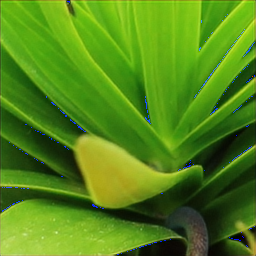
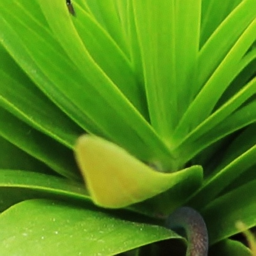
fix evaluate, update pngs

diff --git a/project_1/src/evaluate.py b/project_1/src/evaluate.py
@@ -48,11 +48,14 @@ def evaluate(dataloader, model_path, result_csv='result.csv'):
     model.load_state_dict(torch.load(model_path, map_location=device))
     model.eval()
 
+    print("Initializing LPIPS...")
     lpips_loss_fn = lpips.LPIPS(net='alex').to(device)
+    print("LPIPS initialized.")
     psnr_values, ssim_values, lpips_values = [], [], []
 
     with torch.no_grad():
-        for inputs, targets in dataloader:
+        total_batches = len(dataloader)
+        for batch_index, (inputs, targets) in enumerate(dataloader, start=1):
             inputs, targets = inputs.to(device), targets.to(device)
             outputs = model(inputs)
 
@@ -78,6 +81,9 @@ def evaluate(dataloader, model_path, result_csv='result.csv'):
             # Extract individual values from the batch
             for j in range(lpips_batch.shape[0]):
                 lpips_values.append(lpips_batch[j].item())
+
+            if batch_index % 5 == 0 or batch_index == total_batches:
+                print(f"Progress: {batch_index}/{total_batches} batches ({(100.0 * batch_index / total_batches):.1f}%)")
     
     average_psnr, average_ssim, average_lpips = write_results(result_csv, psnr_values, ssim_values, lpips_values)
 
@@ -92,48 +98,37 @@ def evaluate(dataloader, model_path, result_csv='result.csv'):
         'lpips': average_lpips,
     }
 
-def evaluate_external_method(dataloader, restoration_method, result_csv='external_method_results.csv'):
+def evaluate_denoising_bilateral(dataloader, sigma_color=0.05, sigma_spatial=15, result_csv='bilateral_denoising_results.csv'):
     print('=' * 50)
-    print(f"Evaluating external method: {restoration_method}")
+    print(f"Evaluating bilateral denoising")
     print(f"Size of test set: {len(dataloader.dataset)}")
     print(f"Saving results to: {result_csv}")
     
     psnr_values, ssim_values, lpips_values = [], [], []
+    print("Initializing LPIPS...")
     lpips_loss_fn = lpips.LPIPS(net='alex')
+    print("LPIPS initialized.")
 
-    # Small normalized blur kernel used for Richardson-Lucy deblurring.
-    psf = np.ones((5, 5), dtype=np.float32)
-    psf /= psf.sum()
-
-    for inputs, targets in dataloader:
+    total_batches = len(dataloader)
+    for batch_index, (inputs, targets) in enumerate(dataloader, start=1):
         inputs_np = inputs.cpu().numpy().transpose(0, 2, 3, 1)  # (B, C, H, W) -> (B, H, W, C)
         targets_np = targets.cpu().numpy().transpose(0, 2, 3, 1)  # (B, C, H, W) -> (B, H, W, C)
 
         for i in range(inputs_np.shape[0]):
-            restored = None
-            if restoration_method == 'bilateral_denoising':
-                restored = denoise_bilateral(inputs_np[i], channel_axis=-1)
-            elif restoration_method == 'richardson_lucy_deblurring':
-                # richardson_lucy expects image and PSF dimensionality to match.
-                # For RGB images, apply RL independently per channel with a 2D PSF.
-                restored = np.stack(
-                    [
-                        richardson_lucy(inputs_np[i, :, :, c], psf, num_iter=10)
-                        for c in range(inputs_np[i].shape[2])
-                    ],
-                    axis=-1,
-                )
-
+            restored = denoise_bilateral(inputs_np[i], sigma_color=sigma_color, sigma_spatial=sigma_spatial, channel_axis=-1)
             restored = np.clip(restored, 0.0, 1.0)
             
             psnr_values.append(psnr(targets_np[i], restored, data_range=1.0))
-            ssim_values.append(ssim(targets_np[i], restored, channel_axis=2, data_range=1.0))
+            ssim_values.append(ssim(targets_np[i], restored, channel_axis=2, data_range=1.0, win_size=5))
             
             restored_lpips = torch.from_numpy(restored.transpose(2, 0, 1)).unsqueeze(0) * 2 - 1  # [0, 1] -> [-1, 1]
             targets_lpips = torch.from_numpy(targets_np[i].transpose(2, 0, 1)).unsqueeze(0) * 2 - 1  # [0, 1] -> [-1, 1]
             lpips_value = lpips_loss_fn(restored_lpips.float(), targets_lpips.float()).item()
             lpips_values.append(lpips_value)
 
+        if batch_index % 5 == 0 or batch_index == total_batches:
+            print(f"Progress: {batch_index}/{total_batches} images ({(100.0 * batch_index / total_batches):.1f}%)")
+
     average_psnr, average_ssim, average_lpips = write_results(result_csv, psnr_values, ssim_values, lpips_values)
 
     print(f"Average PSNR: {average_psnr:.4f}")
@@ -147,24 +142,67 @@ def evaluate_external_method(dataloader, restoration_method, result_csv='externa
         'lpips': average_lpips,
     }
 
+def evaluate_richardson_lucy(dataloader, psf, iterations=15, result_csv='richardson_lucy_deblurring_results.csv'):
+    print('=' * 50)
+    print(f"Evaluating Richardson-Lucy deblurring")
+    print(f"Size of test set: {len(dataloader.dataset)}")
+    print(f"Saving results to: {result_csv}")
+    
+    psnr_values, ssim_values, lpips_values = [], [], []
+    print("Initializing LPIPS...")
+    lpips_loss_fn = lpips.LPIPS(net='alex')
+    print("LPIPS initialized.")
+
+    total_batches = len(dataloader)
+    for batch_index, (inputs, targets) in enumerate(dataloader, start=1):
+        inputs_np = inputs.cpu().numpy().transpose(0, 2, 3, 1)  # (B, C, H, W) -> (B, H, W, C)
+        targets_np = targets.cpu().numpy().transpose(0, 2, 3, 1)  # (B, C, H, W) -> (B, H, W, C)
+
+        for i in range(inputs_np.shape[0]):
+            # skimage.richardson_lucy expects image and PSF to have matching dimensionality.
+            # For RGB images and a 2D PSF, deconvolve each channel separately.
+            restored = np.stack([
+                richardson_lucy(inputs_np[i][..., c], psf=psf, num_iter=iterations)
+                for c in range(inputs_np[i].shape[2])
+            ], axis=2)
+            restored = np.clip(restored, 0.0, 1.0)
+            
+            psnr_values.append(psnr(targets_np[i], restored, data_range=1.0))
+            ssim_values.append(ssim(targets_np[i], restored, channel_axis=2, data_range=1.0, win_size=5))
+            
+            restored_lpips = torch.from_numpy(restored.transpose(2, 0, 1)).unsqueeze(0) * 2 - 1  # [0, 1] -> [-1, 1]
+            targets_lpips = torch.from_numpy(targets_np[i].transpose(2, 0, 1)).unsqueeze(0) * 2 - 1  # [0, 1] -> [-1, 1]
+            lpips_value = lpips_loss_fn(restored_lpips.float(), targets_lpips.float()).item()
+            lpips_values.append(lpips_value)
+
+        if batch_index % 5 == 0 or batch_index == total_batches:
+            print(f"Progress: {batch_index}/{total_batches} images ({(100.0 * batch_index / total_batches):.1f}%)")
+
+    average_psnr, average_ssim, average_lpips = write_results(result_csv, psnr_values, ssim_values, lpips_values)
+
+    print(f"Average PSNR: {average_psnr:.4f}")
+    print(f"Average SSIM: {average_ssim:.4f}")
+    print(f"Average LPIPS: {average_lpips:.4f}")
+    print('=' * 50)
+
 
 if __name__ == "__main__":
     print('Evaluating denoising, with sigma=0.01')
-    denoising_001_dataloader = build_dataloader('../data/validation/noisy_001', '../data/validation/clean')
+    denoising_001_dataloader = build_dataloader('../data/validation/noisy_001', '../data/validation/clean', data_offset=100, data_size=50)
     evaluate(denoising_001_dataloader, '../models/denoising_001_model.pth', result_csv='../results/denoising_001_results.csv')
-    evaluate_external_method(denoising_001_dataloader, 'bilateral_denoising', result_csv='../results/bilateral_denoising_001_results.csv')
+    evaluate_denoising_bilateral(denoising_001_dataloader, sigma_color=0.025, sigma_spatial=10, result_csv='../results/bilateral_denoising_001_results.csv')
 
     print('Evaluating denoising, with sigma=0.03')
-    denoising_003_dataloader = build_dataloader('../data/validation/noisy_003', '../data/validation/clean')
+    denoising_003_dataloader = build_dataloader('../data/validation/noisy_003', '../data/validation/clean', data_offset=100, data_size=50)
     evaluate(denoising_003_dataloader, '../models/denoising_003_model.pth', result_csv='../results/denoising_003_results.csv')
-    evaluate_external_method(denoising_003_dataloader, 'bilateral_denoising', result_csv='../results/bilateral_denoising_003_results.csv')
+    evaluate_denoising_bilateral(denoising_003_dataloader, sigma_color=0.075, sigma_spatial=10, result_csv='../results/bilateral_denoising_003_results.csv')
 
     print('Evaluating deblurring, with kernel size 3')
-    deblurring_3_dataloader = build_dataloader('../data/validation/blurred_3', '../data/validation/clean')
+    deblurring_3_dataloader = build_dataloader('../data/validation/blurred_3', '../data/validation/clean', data_offset=100, data_size=50)
     evaluate(deblurring_3_dataloader, '../models/deblurring_3_model.pth', result_csv='../results/deblurring_3_results.csv')
-    evaluate_external_method(deblurring_3_dataloader, 'richardson_lucy_deblurring', result_csv='../results/richardson_lucy_deblurring_3_results.csv')
+    evaluate_richardson_lucy(deblurring_3_dataloader, psf=np.ones((3, 3)) / 9, iterations=10, result_csv='../results/richardson_lucy_deblurring_3_results.csv')
 
     print('Evaluating deblurring, with kernel size 5')
-    deblurring_5_dataloader = build_dataloader('../data/validation/blurred_5', '../data/validation/clean')
+    deblurring_5_dataloader = build_dataloader('../data/validation/blurred_5', '../data/validation/clean', data_offset=100, data_size=50)
     evaluate(deblurring_5_dataloader, '../models/deblurring_5_model.pth', result_csv='../results/deblurring_5_results.csv')
-    evaluate_external_method(deblurring_5_dataloader, 'richardson_lucy_deblurring', result_csv='../results/richardson_lucy_deblurring_5_results.csv')
+    evaluate_richardson_lucy(deblurring_5_dataloader, psf=np.ones((5, 5)) / 25, iterations=10, result_csv='../results/richardson_lucy_deblurring_5_results.csv')

diff --git a/project_1/src/visualize.py b/project_1/src/visualize.py
@@ -1,48 +1,85 @@
 import cv2
 import torch
+import numpy as np
+from skimage.restoration import denoise_bilateral, richardson_lucy
 
 from model import ImageRestorationCNN
+
+
+def load_image_rgb01(image_path):
+    image_bgr = cv2.imread(image_path) # opencv uses BGR format, torch uses RGB
+    if image_bgr is None:
+        raise ValueError(f"Failed to load image: {image_path}")
+    image_rgb = cv2.cvtColor(image_bgr, cv2.COLOR_BGR2RGB) # convert from BGR to RGB
+    return image_rgb.astype(np.float32) / 255.0
+
+def save_image_rgb01(image_path, image_rgb01):
+    image_clipped = np.clip(image_rgb01, 0.0, 1.0)
+    image_uint8 = (image_clipped * 255.0).astype(np.uint8)
+    image_bgr = cv2.cvtColor(image_uint8, cv2.COLOR_RGB2BGR) # convert from RGB to BGR
+    cv2.imwrite(image_path, image_bgr)
 
 def reconstruct_image(model_path, input_image_path):
     model = ImageRestorationCNN()
     model.load_state_dict(torch.load(model_path, map_location=torch.device('cpu')))
+    model.eval() # make sure to set the model to evaluation mode
 
-    input_image = cv2.imread(input_image_path)
-    input_tensor = torch.from_numpy(input_image.transpose(2, 0, 1)).unsqueeze(0).float() / 255.0 # type: ignore
-    reconstructed_tensor = model(input_tensor).squeeze(0).detach().numpy().transpose(1, 2, 0) * 255.0
-    return reconstructed_tensor.astype('uint8')
+    input_image = load_image_rgb01(input_image_path)
+    input_tensor = torch.from_numpy(input_image.transpose(2, 0, 1)).unsqueeze(0)
+    with torch.no_grad(): # make sure no gradient computation happens
+        reconstructed_tensor = model(input_tensor)
+    reconstructed_image = reconstructed_tensor.squeeze(0).cpu().numpy().transpose(1, 2, 0)
+    return np.clip(reconstructed_image, 0.0, 1.0)
+
+def reconstruct_image_bilateral(input_image_path, sigma_color=0.05, sigma_spatial=15):
+    input_image = load_image_rgb01(input_image_path)
+    return denoise_bilateral(input_image, sigma_color=sigma_color, sigma_spatial=sigma_spatial, channel_axis=-1)
+
+def reconstruct_image_richardson_lucy(input_image_path, psf, iterations=50):
+    input_image = load_image_rgb01(input_image_path)
+    restored = np.stack([
+        richardson_lucy(input_image[..., c], psf, num_iter=iterations)
+        for c in range(input_image.shape[2])
+    ], axis=2)
+    return np.clip(restored, 0.0, 1.0)
 
 if __name__ == "__main__":
     print('Visualize denoising with sigma=0.01')
-    original_image = cv2.imread('../data/validation/clean/0801_0.png')
-    blurred_image = cv2.imread('../data/validation/noisy_001/0801_0.png')
-    reconstructed_image = reconstruct_image('../models/denoising_001_model.pth', '../data/validation/noisy_001/0801_0.png')
-
-    cv2.imwrite('../visualizations/DN001_original_image.png', original_image) # type: ignore
-    cv2.imwrite('../visualizations/DN001_noisy_image.png', blurred_image) # type: ignore
-    cv2.imwrite('../visualizations/DN001_reconstructed_image.png', reconstructed_image)
+    original_image = load_image_rgb01('../data/validation/clean/0807_0.png')
+    blurred_image = load_image_rgb01('../data/validation/noisy_001/0807_0.png')
+    reconstructed_image = reconstruct_image('../models/denoising_001_model.pth', '../data/validation/noisy_001/0807_0.png')
+    reconstructed_biletral_image = reconstruct_image_bilateral('../data/validation/noisy_001/0807_0.png', sigma_color=0.025, sigma_spatial=10)
+    save_image_rgb01('../visualizations/DN001_original_image.png', original_image)
+    save_image_rgb01('../visualizations/DN001_noisy_image.png', blurred_image)
+    save_image_rgb01('../visualizations/DN001_reconstructed_image.png', reconstructed_image)
+    save_image_rgb01('../visualizations/DN001_bilateral_image.png', reconstructed_biletral_image)
 
     print('Visualize denoising with sigma=0.03')
-    original_image = cv2.imread('../data/validation/clean/0802_0.png')
-    blurred_image = cv2.imread('../data/validation/noisy_003/0802_0.png')
+    original_image = load_image_rgb01('../data/validation/clean/0802_0.png')
+    blurred_image = load_image_rgb01('../data/validation/noisy_003/0802_0.png')
     reconstructed_image = reconstruct_image('../models/denoising_003_model.pth', '../data/validation/noisy_003/0802_0.png')
-
-    cv2.imwrite('../visualizations/DN003_original_image.png', original_image) # type: ignore
-    cv2.imwrite('../visualizations/DN003_noisy_image.png', blurred_image) # type: ignore
-    cv2.imwrite('../visualizations/DN003_reconstructed_image.png', reconstructed_image)
+    reconstructed_image_bilateral = reconstruct_image_bilateral('../data/validation/noisy_003/0802_0.png', sigma_color=0.075, sigma_spatial=10)
+    save_image_rgb01('../visualizations/DN003_original_image.png', original_image)
+    save_image_rgb01('../visualizations/DN003_noisy_image.png', blurred_image)
+    save_image_rgb01('../visualizations/DN003_reconstructed_image.png', reconstructed_image)
+    save_image_rgb01('../visualizations/DN003_bilateral_image.png', reconstructed_image_bilateral)
 
     print('Visualize deblurring with kernel size 3')
-    original_image = cv2.imread('../data/validation/clean/0803_0.png')
-    blurred_image = cv2.imread('../data/validation/blurred_3/0803_0.png')
+    original_image = load_image_rgb01('../data/validation/clean/0803_0.png')
+    blurred_image = load_image_rgb01('../data/validation/blurred_3/0803_0.png')
     reconstructed_image = reconstruct_image('../models/deblurring_3_model.pth', '../data/validation/blurred_3/0803_0.png')
-    cv2.imwrite('../visualizations/DB003_original_image.png', original_image) # type: ignore
-    cv2.imwrite('../visualizations/DB003_blurred_image.png', blurred_image) # type: ignore
-    cv2.imwrite('../visualizations/DB003_reconstructed_image.png', reconstructed_image)
+    reconstructed_rl_image = reconstruct_image_richardson_lucy('../data/validation/blurred_3/0803_0.png', psf=np.ones((3, 3)) / 9, iterations=10)
+    save_image_rgb01('../visualizations/DB003_original_image.png', original_image)
+    save_image_rgb01('../visualizations/DB003_blurred_image.png', blurred_image)
+    save_image_rgb01('../visualizations/DB003_reconstructed_image.png', reconstructed_image)
+    save_image_rgb01('../visualizations/DB003_richardson_lucy_image.png', reconstructed_rl_image)
 
     print('Visualize deblurring with kernel size 5')
-    original_image = cv2.imread('../data/validation/clean/0804_0.png')
-    blurred_image = cv2.imread('../data/validation/blurred_5/0804_0.png')
+    original_image = load_image_rgb01('../data/validation/clean/0804_0.png')
+    blurred_image = load_image_rgb01('../data/validation/blurred_5/0804_0.png')
     reconstructed_image = reconstruct_image('../models/deblurring_5_model.pth', '../data/validation/blurred_5/0804_0.png')
-    cv2.imwrite('../visualizations/DB005_original_image.png', original_image) # type: ignore
-    cv2.imwrite('../visualizations/DB005_blurred_image.png', blurred_image) # type: ignore
-    cv2.imwrite('../visualizations/DB005_reconstructed_image.png', reconstructed_image)
+    reconstructed_rl_image = reconstruct_image_richardson_lucy('../data/validation/blurred_5/0804_0.png', psf=np.ones((5, 5)) / 25, iterations=10)
+    save_image_rgb01('../visualizations/DB005_original_image.png', original_image)
+    save_image_rgb01('../visualizations/DB005_blurred_image.png', blurred_image)
+    save_image_rgb01('../visualizations/DB005_reconstructed_image.png', reconstructed_image)
+    save_image_rgb01('../visualizations/DB005_richardson_lucy_image.png', reconstructed_rl_image)

diff --git a/project_1/project_1.md b/project_1/project_1.md
@@ -25,3 +25,9 @@ mkdir results
 cd src
 python evaluate.py
 ```
+7. Visualize the image results with
+```bash
+mkdir visualizations
+cd src
+python visualize.py
+```
